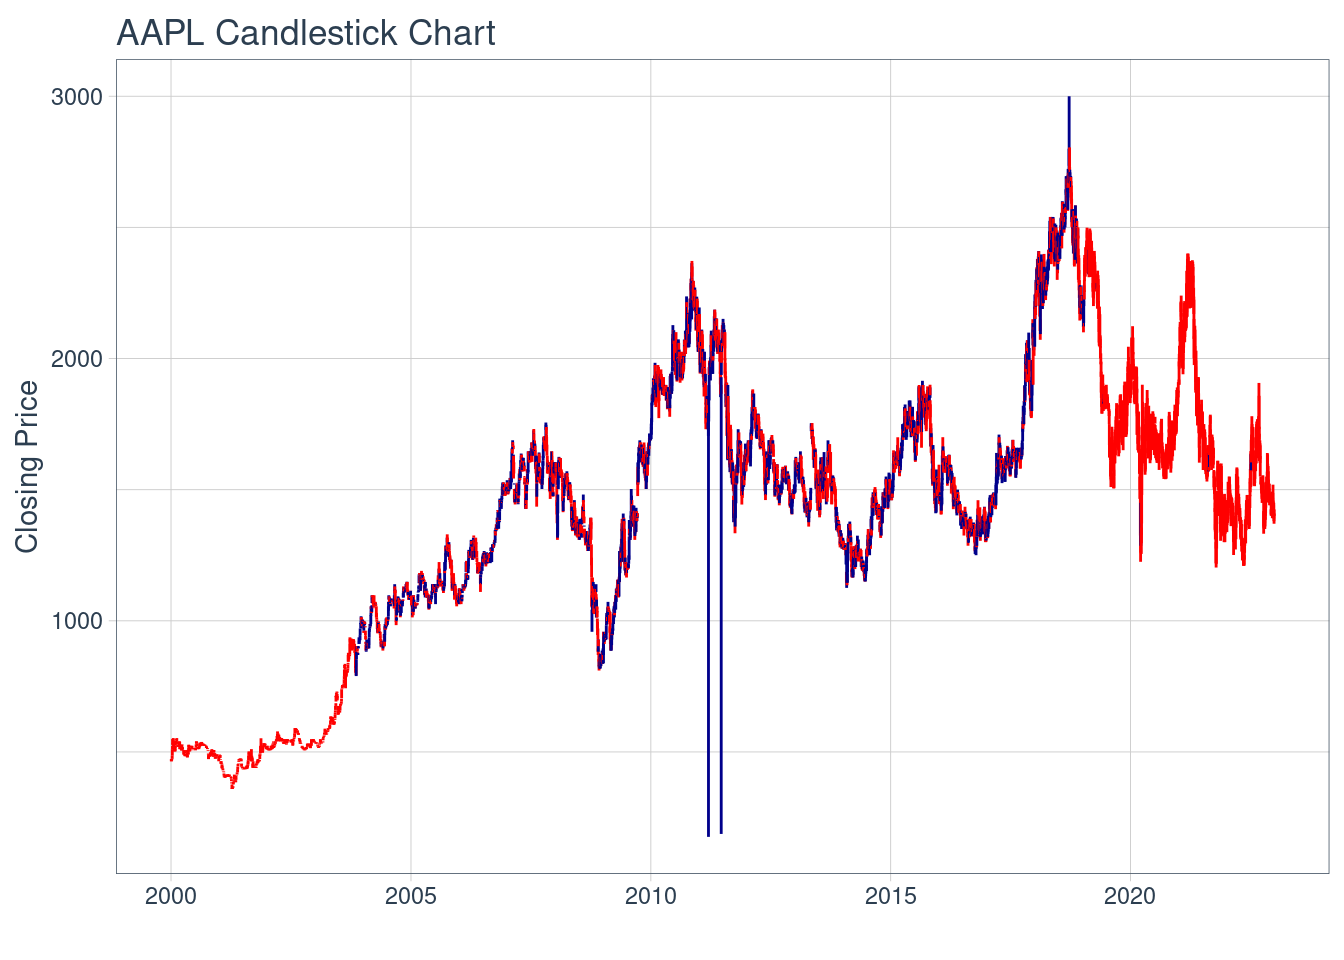
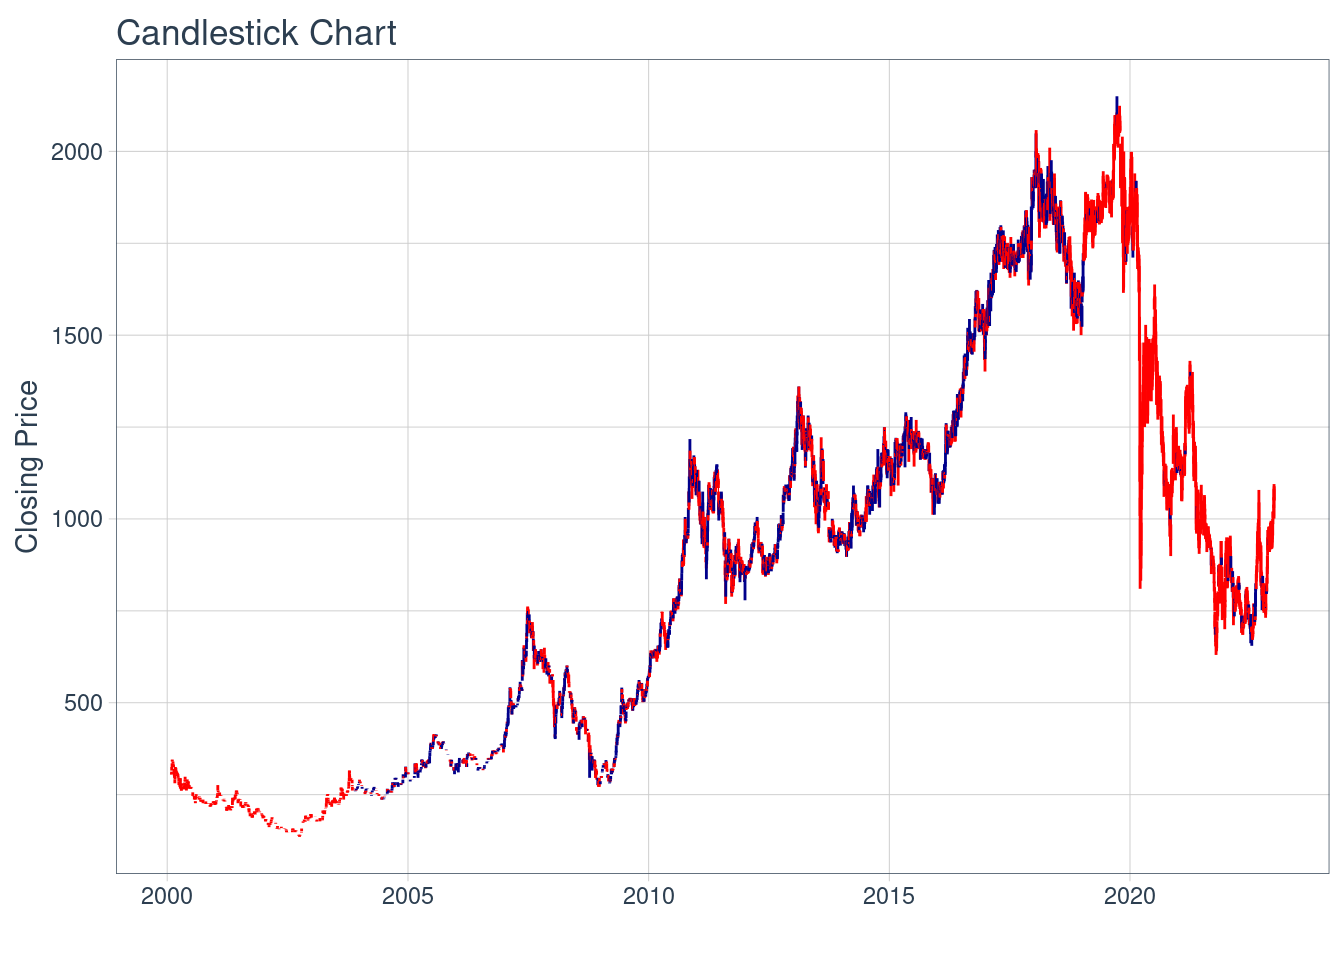
funciona?

diff --git a/Plantilla.html b/Plantilla.html
@@ -6,7 +6,7 @@
 
 <meta name="viewport" content="width=device-width, initial-scale=1.0, user-scalable=yes">
 
-<meta name="author" content="Alumno">
+<meta name="author" content="Carlos Rivas">
 
 <title>Plantilla Proyecto</title>
 <style>
@@ -20,40 +20,6 @@ ul.task-list li input[type="checkbox"] {
   width: 0.8em;
   margin: 0 0.8em 0.2em -1em; /* quarto-specific, see https://github.com/quarto-dev/quarto-cli/issues/4556 */ 
   vertical-align: middle;
-}
-/* CSS for syntax highlighting */
-pre > code.sourceCode { white-space: pre; position: relative; }
-pre > code.sourceCode > span { display: inline-block; line-height: 1.25; }
-pre > code.sourceCode > span:empty { height: 1.2em; }
-.sourceCode { overflow: visible; }
-code.sourceCode > span { color: inherit; text-decoration: inherit; }
-div.sourceCode { margin: 1em 0; }
-pre.sourceCode { margin: 0; }
-@media screen {
-div.sourceCode { overflow: auto; }
-}
-@media print {
-pre > code.sourceCode { white-space: pre-wrap; }
-pre > code.sourceCode > span { text-indent: -5em; padding-left: 5em; }
-}
-pre.numberSource code
-  { counter-reset: source-line 0; }
-pre.numberSource code > span
-  { position: relative; left: -4em; counter-increment: source-line; }
-pre.numberSource code > span > a:first-child::before
-  { content: counter(source-line);
-    position: relative; left: -1em; text-align: right; vertical-align: baseline;
-    border: none; display: inline-block;
-    -webkit-touch-callout: none; -webkit-user-select: none;
-    -khtml-user-select: none; -moz-user-select: none;
-    -ms-user-select: none; user-select: none;
-    padding: 0 4px; width: 4em;
-  }
-pre.numberSource { margin-left: 3em;  padding-left: 4px; }
-div.sourceCode
-  {   }
-@media screen {
-pre > code.sourceCode > span > a:first-child::before { text-decoration: underline; }
 }
 </style>
 
@@ -90,7 +56,7 @@ pre > code.sourceCode > span > a:first-child::before { text-decoration: underlin
     <div>
     <div class="quarto-title-meta-heading">Author</div>
     <div class="quarto-title-meta-contents">
-             <p>Alumno </p>
+             <p>Carlos Rivas </p>
           </div>
   </div>
     
@@ -106,19 +72,15 @@ pre > code.sourceCode > span > a:first-child::before { text-decoration: underlin
 <p>Fecha de entrega: Jueves 28 de Septiembre 23:59.</p>
 <section id="definición" class="level3">
 <h3 class="anchored" data-anchor-id="definición">Definición</h3>
-<p>Definir y describir activo a estudiar, acompañar con datos (tributa a indicador de Contexto) y con referencias científicas realizando una investigacion relacionada a articulos ubicados en la base de datos de Web of Science, con una calificacion Q1-Q2 y referenciada varias veces (Esto se verá en el tutorial de la semana 5).</p>
-<p>El activo CMPC tiene un valor promedio para el intervalo igual a 1395</p>
+<p>Parque Arauco S.A, es una empresa inmobiliaria chilena que está centrada principalmente en la explotación de centros comerciales, contando con 5 centros comerciales “Mall Arauco” en distintas comunas de Santiago, Chile. Además, tiene 4 centros comerciales distribuidos en otras ciudades del país. Esta empresa pertenece al principal indice bursatil de Chile, llamado IPSA, por lo que está dentro de las 30 acciones con mayor presencia bursatil, lo que la convierte en una de las empresas más importantes a nivel país.</p>
+<p>El paper “Neoliberal Lakeside Residentialism: Real Estate Developmente and the Sustainable Utopia in Environmentally Fragile Areas” habla del desarrollo inmobiliario junto al lago, lo que nos dice como a evolucionado la comercializacion en ambientes fragiles para la construccion de residencias, creando una especie de “utopia verde” para los residentes pero lo que a la vez perjudica a la sostenibilidad ambiental y a las areas de turismo, ya que estas son cerradas por las construcciones. Esto termina dañando el territorio ambiental y social por lo que se deberian realizar regulaciones para conservar el ambiente y cultura.</p>
+<p>fuente: <a href="https://www.webofscience.com/wos/woscc/full-record/WOS:000845786900001" class="uri">https://www.webofscience.com/wos/woscc/full-record/WOS:000845786900001</a></p>
 <div class="cell">
 <div class="cell-output-display">
 <p><img src="Plantilla_files/figure-html/CMPCline-1.png" class="img-fluid" width="672"></p>
 </div>
 </div>
 <div class="cell">
-<div class="sourceCode cell-code" id="cb1"><pre class="sourceCode r code-with-copy"><code class="sourceCode r"><span id="cb1-1"><a href="#cb1-1" aria-hidden="true" tabindex="-1"></a>CMPC <span class="sc">%&gt;%</span></span>
-<span id="cb1-2"><a href="#cb1-2" aria-hidden="true" tabindex="-1"></a>    <span class="fu">ggplot</span>(<span class="fu">aes</span>(<span class="at">x =</span> date, <span class="at">y =</span> close)) <span class="sc">+</span></span>
-<span id="cb1-3"><a href="#cb1-3" aria-hidden="true" tabindex="-1"></a>    <span class="fu">geom_candlestick</span>(<span class="fu">aes</span>(<span class="at">open =</span> open, <span class="at">high =</span> high, <span class="at">low =</span> low, <span class="at">close =</span> close)) <span class="sc">+</span></span>
-<span id="cb1-4"><a href="#cb1-4" aria-hidden="true" tabindex="-1"></a>    <span class="fu">labs</span>(<span class="at">title =</span> <span class="st">"AAPL Candlestick Chart"</span>, <span class="at">y =</span> <span class="st">"Closing Price"</span>, <span class="at">x =</span> <span class="st">""</span>) <span class="sc">+</span></span>
-<span id="cb1-5"><a href="#cb1-5" aria-hidden="true" tabindex="-1"></a>    <span class="fu">theme_tq</span>()</span></code><button title="Copy to Clipboard" class="code-copy-button"><i class="bi"></i></button></pre></div>
 <div class="cell-output-display">
 <p><img src="Plantilla_files/figure-html/CMPCcandle-1.png" class="img-fluid" width="672"></p>
 </div>
@@ -126,73 +88,56 @@ pre > code.sourceCode > span > a:first-child::before { text-decoration: underlin
 </section>
 <section id="motivación" class="level3">
 <h3 class="anchored" data-anchor-id="motivación">Motivación</h3>
-<p>Establecer la relevancia o potencial interés específico del activo que justifique el porque realizar la investigacion a este activo y no a otros. Argumentar haciendo referencia a datos o noticias actuales que motiven el estudio de este activo.</p>
+<p>Parque Arauco S.A al ser una empresa inmobiliaria y estar dentro del IPSA, la convierte en una empresa bastante importante a nivel nacional, además al estar centrada en la explotación de centros comerciales contribuye considerablemente al consumo y economia local.</p>
+<p>Esta empresa tambien tiene presencia a nivel internacional, especificamente en Colombia desde 2008 y en Perú desde 2005.</p>
+<p>En el ultimo pais mencionado, la empresa invertirá cerca de 109 millones de dolares en 3 proyectos, los que abarcan; un edificio multifamiliar en el distrito de Miraflores, un nuevo centro comercial llamado “Parque La Molina” en el distrito de La Molina y una ampliación para el centro comercial “MegaPlaza Independencia”, este es el mas grande en Perú.</p>
+<p>Por lo dicho anteriomente se puede notar que Parque Arauco S.A, además de ser importante a nivel nacional, tambien lo es a nivel internacional, en donde está construyendo espacios para las personas, tanto a nivel comercial como familiar. Tambien se puede observar que es una empresa que se sigue expandiendo en los paises donde se encuentra. Por lo tanto es un sector bastente importante que motiva la estudio.</p>
+<p>fuente: <a href="https://www.peru-retail.com/parque-arauco-invertira-mas-de-us-100-millones-en-peru-estos-proyectos-desarrollara/" class="uri">https://www.peru-retail.com/parque-arauco-invertira-mas-de-us-100-millones-en-peru-estos-proyectos-desarrollara/</a></p>
 </section>
 <section id="contexto" class="level3">
 <h3 class="anchored" data-anchor-id="contexto">Contexto</h3>
-<p>Ingesta datos del activo y provee un análisis de estadística descriptiva simple junto con el análisis de una variable económica de contexto. Ejemplo: Si el activo es una minera, la variable puede ser el precio del metal. Acompañar este analisis con graficos, riesgos, horizonte de inversion, rentabilidad del activo, entre otros.</p>
+<p>El activo principal es Parque Arauco S.A (PARAUCO.SN) y las dos variables son el dolar estadounidense versus el peso chileno (CLP=X) y el cobre valorado en usd (HG=F), estas variables estan relacionadas con el activo principal ya que la empresa hace inversiones denominadas en dolares estadounidenses por lo que es importante saber el precio del dolar estadounidense versus el peso chileno, al ser esta una empresa chilena, por otro lado el cobre se utiliza en las construcciones de edificios para el cableado, tuberias de agua o gas, sistemas termicos, etc.</p>
 <div class="cell">
 <div class="cell-output-display">
 <p><img src="Plantilla_files/figure-html/context-1.png" class="img-fluid" width="672"></p>
 </div>
 </div>
-<p>Ejemplos:</p>
-<div class="columns">
-<div class="column" style="width:50%;">
-<div class="quarto-figure quarto-figure-left">
-<figure class="figure">
-<p><img src="photos/Captura%20de%20pantalla%202023-08-22%20102815.png" class="img-fluid figure-img" width="261"></p>
-</figure>
-</div>
-</div><div class="column" style="width:50%;">
-<div class="quarto-figure quarto-figure-right">
-<figure class="figure">
-<p><img src="photos/Captura%20de%20pantalla%202023-08-22%20103005.png" class="img-fluid figure-img" width="254"></p>
-</figure>
-</div>
-</div>
-</div>
-<div class="quarto-figure quarto-figure-left">
-<figure class="figure">
-<p><img src="photos/Captura%20de%20pantalla%202023-08-22%20103037.png" class="img-fluid figure-img" width="256"></p>
-</figure>
-</div>
-</section>
-<section id="tareas-semana-4" class="level3">
-<h3 class="anchored" data-anchor-id="tareas-semana-4">Tareas Semana 4</h3>
-<ul>
-<li>Utilizar otros ejemplos de visualización: https://business-science.github.io/tidyquant/articles/TQ04-charting-with-tidyquant.html</li>
-<li>¿Para que sirven las siguientes líneas en los bloques de código?</li>
-</ul>
-<pre><code>#| warning: false
-#| echo: false</code></pre>
-<ul>
-<li>Definir activos en base a cada una de las <a href="https://uandes.instructure.com/courses/28266/pages/proyecto-del-curso">industrias definidas</a>: Inmobiliaria, Banca, Energía</li>
-<li>Buscar referencias científicas en la literatura para dar contexto al análisis</li>
-</ul>
 </section>
 <section id="análisis-de-largo-plazo" class="level3">
 <h3 class="anchored" data-anchor-id="análisis-de-largo-plazo">Análisis de Largo Plazo</h3>
 <section id="caracterización-deuda-aplicación-cap.-15" class="level4">
 <h4 class="anchored" data-anchor-id="caracterización-deuda-aplicación-cap.-15">Caracterización deuda (Aplicación cap. 15)</h4>
-<p>Describir el activo especificando en que realiza sus inversiones (por tipo de instrumento). Especificar sus acciones comunes, preferentes y bonos relacionados aplicando lo aprendido en el capitulo respectivo.</p>
-<p>Ejemplo de un fondo mutuo como activo a analizar:</p>
-<p><img src="photos/image_2023-08-22_112358830.png" class="img-fluid" width="353"></p>
+<p><img src="photos/Captura%20de%20pantalla%202023-09-27%20222710.png" class="img-fluid"></p>
+<p>No se logró encontrar el desglose de activos de Parque Arauco S.A. Observando el estado de activos proporcionado en el estado de resultados de la empresa, se aprecia que desde diciembre de 2022 se ha aumentado aproximadamente en 150.000 millones de pesos chilenos, teniendo para junio de 2023 cerca de 3.100.000 millones de pesos chilenos en activos.</p>
+<p><img src="photos/Captura%20de%20pantalla%202023-09-27%20234334.png" class="img-fluid"></p>
+<p>Por otro lado, observando los indicadores financieros se ve que la deuda financiera de la empresa ha aumentado en el segundo trimestre de este año comparado al mismo periodo del año pasado, un factor a considerar es que la empresa puesto en marcha distintos proyectos que necesitan bastante presupuesto, como lo son la construccion de un edificio multifamiliar, un shopping nuevo en Perú y una ampliación en otro loca del mismo país.</p>
+<p>fuente:<a href="https://parquearauco.modyocdn.com/uploads/c3653324-016f-4987-8192-2778e0645e05/original/Parque_Arauco_Earnings_2T23.pdf" class="uri">https://parquearauco.modyocdn.com/uploads/c3653324-016f-4987-8192-2778e0645e05/original/Parque_Arauco_Earnings_2T23.pdf</a></p>
+<p>Las acciones de la empresa son ordinarias y el controlador de esta es Inmobiliaria Atlantis S.A que cuenta con una participación del 25.83% del total de acciones emitidas, siendo estas 212.503.700</p>
+<p>fuente: <a href="https://www.cmfchile.cl/sitio/aplic/serdoc/ver_sgd.php?s567=bb0f2e9a94f7b79adc90a3b9e852284fVFdwQmVFNXFRWGxOUkVGNFQwUk5lVTFuUFQwPQ==&amp;secuencia=-1&amp;t=1695867400" class="uri">https://www.cmfchile.cl/sitio/aplic/serdoc/ver_sgd.php?s567=bb0f2e9a94f7b79adc90a3b9e852284fVFdwQmVFNXFRWGxOUkVGNFQwUk5lVTFuUFQwPQ==&amp;secuencia=-1&amp;t=1695867400</a></p>
+<p>En bonos se tienen diversas lineas y series, de acuerdo al prospecto de bonos corporativos publicado en la CMF en 2020, se agregan las series “Y”, “Z” y “AA”, con clasificaciones de riesgo AA en todas las series por parte de las clasificadoras de riesgo limitada Feller Rate e ICR, por lo que se puede considerar una empresa confiable. Además, segun la noticia del diario financiero, este año Parque Arauco S.A emitirá bonos por UF 3 millones con vencimiento en 2044.</p>
+<p>fuentes: <a href="https://www.cmfchile.cl/sitio/aplic/serdoc/ver_sgd.php?s567=a4d3a62c02fdd4ae30fb6bb1c4096a7cVFdwQmVVMUVRVEpOUkVreVQxUm5kMDVSUFQwPQ==&amp;secuencia=1" class="uri">https://www.cmfchile.cl/sitio/aplic/serdoc/ver_sgd.php?s567=a4d3a62c02fdd4ae30fb6bb1c4096a7cVFdwQmVVMUVRVEpOUkVreVQxUm5kMDVSUFQwPQ==&amp;secuencia=1</a></p>
+<p><a href="https://www.df.cl/mercados/renta-fija/parque-arauco-emite-bono-por-uf-3-millones-en-su-primera-colocacion" class="uri">https://www.df.cl/mercados/renta-fija/parque-arauco-emite-bono-por-uf-3-millones-en-su-primera-colocacion</a></p>
 </section>
 <section id="caracterización-de-emisiones-históricas-aplicación-cap.-20" class="level4">
 <h4 class="anchored" data-anchor-id="caracterización-de-emisiones-históricas-aplicación-cap.-20">Caracterización de emisiones históricas (Aplicación cap. 20)</h4>
-<p>Describir el proceso de emision de acciones paso a paso del activo seleccionado, caracterizando el tipo de colocacion que utilizaron en contraste con el procedimiento basico realizado en el capitulo respectivo.</p>
-<p><img src="photos/image_2023-08-22_111601715.png" class="img-fluid" width="352"></p>
+<p>El prospecto emision de acciones de Parque Arauco S.A publicado por la comision para el mercado financiero (CMF) publicado el 11 de febrero del 2016 dice que, el numero de acciones suscritas y pagas es de 819.464.670, donde el capital se divide en acciones ordinarias y no hay series de acciones. El 30 de noviembre del 2015 se publica la emision de 78.000.000 acciones, el 10% de estas serán destinadas a planes de compesacion para ejecutivos de Parque Arauco S.A y de sus filiales, el tipo de colocacion será por intermediarios y los colocadores serán Banchile Corredores de Bolsa S.A e Itau BBA Corredor de Bolsa Limitada, sin plazo de colocacion.</p>
+<p>Esto difiere del procedimiento basico descrito en el capitulo 20 del libro ya que no es tan especifico en cuanto a los pasos realizados para la colocacion, sobre todo en el ultimo paso ya que el prospecto no especifica el precio de la compra/venta en el mercado.</p>
+<p><img src="photos/Captura%20de%20Pantalla%202023-09-27%20a%20la(s)%2019.49.13.png" class="img-fluid"></p>
+<p>fuente: <a href="https://www.cmfchile.cl/sitio/aplic/serdoc/ver_sgd.php?s567=bb0f2e9a94f7b79adc90a3b9e852284fVFdwQmVFNXFRWGxOUkVGNFQwUk5lVTFuUFQwPQ==&amp;secuencia=-1&amp;t=1695853034" class="uri">https://www.cmfchile.cl/sitio/aplic/serdoc/ver_sgd.php?s567=bb0f2e9a94f7b79adc90a3b9e852284fVFdwQmVFNXFRWGxOUkVGNFQwUk5lVTFuUFQwPQ==&amp;secuencia=-1&amp;t=1695853034</a></p>
 </section>
 <section id="relación-con-activos-derivados" class="level4">
 <h4 class="anchored" data-anchor-id="relación-con-activos-derivados">Relación con activos derivados</h4>
-<p>Describe un activo derivado relacionado, mostrando datos de su evolucion. Tambien mencionar porque es importante este derivado para la activo en cuestion.</p>
-<p>Aplicar procedimiento de valoración de un derivado por inclusión en estructura de retornos (a profundizar en tutorial de la unidad de Derivados).</p>
+<p>Un activo derivado es el de Cencosud ya que Parque Arauco S.A tiene contratos a largo plazo con arrendatarios y tiendas anclas fijas con alta calidad crediticia. En los centros comerciales de Parque Arauco S.A podemos encontrar Paris, retail perteneciente a Cencosud.</p>
+<p>fuente:<a href="https://icrchile.cl/wp-content/uploads/2023/04/6552s-1.pdf" class="uri">https://icrchile.cl/wp-content/uploads/2023/04/6552s-1.pdf</a></p>
+<p>En el siguiente graficos podemos ver los precios de los dos activos, la linea azul pertenece a Parque Arauco S.A y la negra a Cencosud.</p>
+<p><img src="photos/Captura%20de%20pantalla%202023-09-28%20174414.png" class="img-fluid"></p>
+<p>Se puede observar que existe una relacion entre estos dos activos, en especial en la zona del rectangulo que corresponde a los ultimos 5 años, en donde la relacion es mucho mas fuerte que en periodos anteriores.</p>
 </section>
 </section>
 <section id="reporte-grupal" class="level3">
 <h3 class="anchored" data-anchor-id="reporte-grupal">Reporte grupal</h3>
-<p>Definicion de un balance de portafolio sobre los 3 activos del grupo, donde se especifique los pesos de cada activo de tal forma que maximize el retorno de la cartera.</p>
+<p>Las ponderaciones son las siguientes: 50% banco, 35% energia y 15% inmobiliaria</p>
+<p>Escogimos esta distribución ya que actualmente, con las altas tasas de interés, producto de la inflación, los bancos han generado un mayor retorno, lo cual incrementa el ingreso que han ganado y por ende tienen más dinero para realizar inversiones, lo que puede provocar un aumento en su precio de acción. Es debido a esto que le otorgamos un 50% de peso al banco, ya que es la entidad que más retornos nos va a producir. Para poder diversificar el portafolio, le colocamos un 35% al sector de energía, ya que es un sector “neutro”, al cual no le ha ido bien ni mal, sin embargo es un sector de commoditie, por lo cual es usado por toda la población y por ende, su aumento o disminución en el precio no es muy notable. Finalmente, otorgamos un 15% al sector inmobiliario, ya que actualmente es un sector que ha sido muy repercutido por la inflación y las altas tasas de interés, lo que produjo que su precio de acción disminuyera bastante. Creemos que esta tendencia seguirá, por lo que le otorgamos un menor peso en el portafolio.</p>
 </section>
 </section>
 
